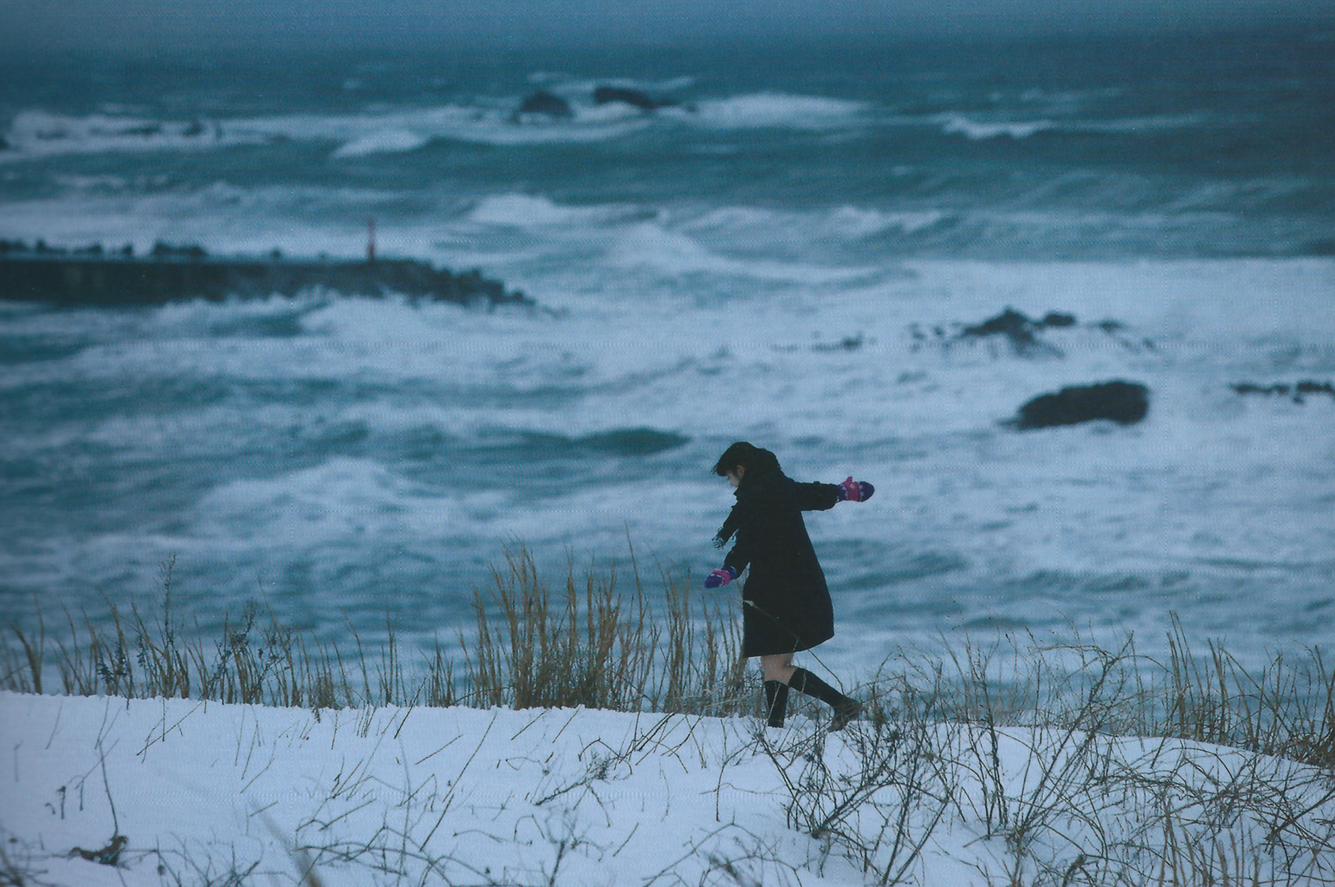
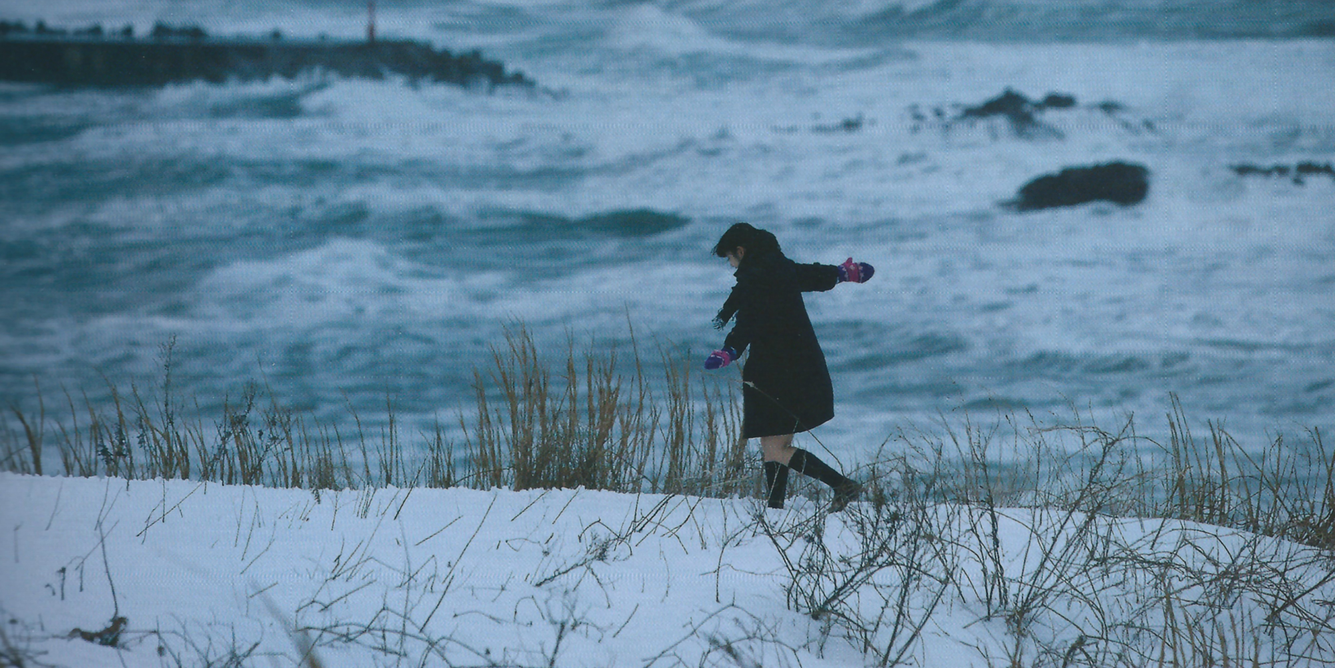
Site updated: 2025-01-14 11:33:17

diff --git a/index.html b/index.html
@@ -260,7 +260,7 @@
     <!-- 主页  -->
     <!-- 文章页  -->
     <div class="site-intro-placeholder"></div>
-    <div class="site-intro-img" style="background-image: url(/intro/17.png)"></div>
+    <div class="site-intro-img" style="background-image: url(/intro/28.png)"></div>
     <div class="site-intro-meta">
         <!-- 标题  -->
         <h1 class="intro-title">
@@ -526,13 +526,13 @@
 
         <div class="sidebar-panel-tags">
     <div class="sidebar-tags-name">
-            <span class="sidebar-tag-name" data-tags="读书笔记">
-                <span class="iconfont-archer">&#xe606;</span>
-                读书笔记
-            </span>
             <span class="sidebar-tag-name" data-tags="关于游戏">
                 <span class="iconfont-archer">&#xe606;</span>
                 关于游戏
+            </span>
+            <span class="sidebar-tag-name" data-tags="读书笔记">
+                <span class="iconfont-archer">&#xe606;</span>
+                读书笔记
             </span>
     </div>
     <div class="iconfont-archer sidebar-tags-empty">&#xe678;</div>

diff --git a/2025/01/09/人生的顶级享受/index.html b/2025/01/09/人生的顶级享受/index.html
@@ -543,13 +543,13 @@
 
         <div class="sidebar-panel-tags">
     <div class="sidebar-tags-name">
-            <span class="sidebar-tag-name" data-tags="读书笔记">
-                <span class="iconfont-archer">&#xe606;</span>
-                读书笔记
-            </span>
             <span class="sidebar-tag-name" data-tags="关于游戏">
                 <span class="iconfont-archer">&#xe606;</span>
                 关于游戏
+            </span>
+            <span class="sidebar-tag-name" data-tags="读书笔记">
+                <span class="iconfont-archer">&#xe606;</span>
+                读书笔记
             </span>
     </div>
     <div class="iconfont-archer sidebar-tags-empty">&#xe678;</div>

diff --git a/2025/01/13/《论语》读书笔记/index.html b/2025/01/13/《论语》读书笔记/index.html
@@ -561,13 +561,13 @@
 
         <div class="sidebar-panel-tags">
     <div class="sidebar-tags-name">
-            <span class="sidebar-tag-name" data-tags="读书笔记">
-                <span class="iconfont-archer">&#xe606;</span>
-                读书笔记
-            </span>
             <span class="sidebar-tag-name" data-tags="关于游戏">
                 <span class="iconfont-archer">&#xe606;</span>
                 关于游戏
+            </span>
+            <span class="sidebar-tag-name" data-tags="读书笔记">
+                <span class="iconfont-archer">&#xe606;</span>
+                读书笔记
             </span>
     </div>
     <div class="iconfont-archer sidebar-tags-empty">&#xe678;</div>

diff --git a/404.html b/404.html
@@ -460,13 +460,13 @@
 
         <div class="sidebar-panel-tags">
     <div class="sidebar-tags-name">
-            <span class="sidebar-tag-name" data-tags="读书笔记">
-                <span class="iconfont-archer">&#xe606;</span>
-                读书笔记
-            </span>
             <span class="sidebar-tag-name" data-tags="关于游戏">
                 <span class="iconfont-archer">&#xe606;</span>
                 关于游戏
+            </span>
+            <span class="sidebar-tag-name" data-tags="读书笔记">
+                <span class="iconfont-archer">&#xe606;</span>
+                读书笔记
             </span>
     </div>
     <div class="iconfont-archer sidebar-tags-empty">&#xe678;</div>

diff --git a/about/index.html b/about/index.html
@@ -480,13 +480,13 @@
 
         <div class="sidebar-panel-tags">
     <div class="sidebar-tags-name">
-            <span class="sidebar-tag-name" data-tags="读书笔记">
-                <span class="iconfont-archer">&#xe606;</span>
-                读书笔记
-            </span>
             <span class="sidebar-tag-name" data-tags="关于游戏">
                 <span class="iconfont-archer">&#xe606;</span>
                 关于游戏
+            </span>
+            <span class="sidebar-tag-name" data-tags="读书笔记">
+                <span class="iconfont-archer">&#xe606;</span>
+                读书笔记
             </span>
     </div>
     <div class="iconfont-archer sidebar-tags-empty">&#xe678;</div>

diff --git a/archives/2025/01/index.html b/archives/2025/01/index.html
@@ -502,13 +502,13 @@
 
         <div class="sidebar-panel-tags">
     <div class="sidebar-tags-name">
-            <span class="sidebar-tag-name" data-tags="读书笔记">
-                <span class="iconfont-archer">&#xe606;</span>
-                读书笔记
-            </span>
             <span class="sidebar-tag-name" data-tags="关于游戏">
                 <span class="iconfont-archer">&#xe606;</span>
                 关于游戏
+            </span>
+            <span class="sidebar-tag-name" data-tags="读书笔记">
+                <span class="iconfont-archer">&#xe606;</span>
+                读书笔记
             </span>
     </div>
     <div class="iconfont-archer sidebar-tags-empty">&#xe678;</div>

diff --git a/archives/2025/index.html b/archives/2025/index.html
@@ -502,13 +502,13 @@
 
         <div class="sidebar-panel-tags">
     <div class="sidebar-tags-name">
-            <span class="sidebar-tag-name" data-tags="读书笔记">
-                <span class="iconfont-archer">&#xe606;</span>
-                读书笔记
-            </span>
             <span class="sidebar-tag-name" data-tags="关于游戏">
                 <span class="iconfont-archer">&#xe606;</span>
                 关于游戏
+            </span>
+            <span class="sidebar-tag-name" data-tags="读书笔记">
+                <span class="iconfont-archer">&#xe606;</span>
+                读书笔记
             </span>
     </div>
     <div class="iconfont-archer sidebar-tags-empty">&#xe678;</div>

diff --git a/archives/index.html b/archives/index.html
@@ -502,13 +502,13 @@
 
         <div class="sidebar-panel-tags">
     <div class="sidebar-tags-name">
-            <span class="sidebar-tag-name" data-tags="读书笔记">
-                <span class="iconfont-archer">&#xe606;</span>
-                读书笔记
-            </span>
             <span class="sidebar-tag-name" data-tags="关于游戏">
                 <span class="iconfont-archer">&#xe606;</span>
                 关于游戏
+            </span>
+            <span class="sidebar-tag-name" data-tags="读书笔记">
+                <span class="iconfont-archer">&#xe606;</span>
+                读书笔记
             </span>
     </div>
     <div class="iconfont-archer sidebar-tags-empty">&#xe678;</div>

diff --git a/tags/关于游戏/index.html b/tags/关于游戏/index.html
@@ -478,13 +478,13 @@
 
         <div class="sidebar-panel-tags">
     <div class="sidebar-tags-name">
-            <span class="sidebar-tag-name" data-tags="读书笔记">
-                <span class="iconfont-archer">&#xe606;</span>
-                读书笔记
-            </span>
             <span class="sidebar-tag-name" data-tags="关于游戏">
                 <span class="iconfont-archer">&#xe606;</span>
                 关于游戏
+            </span>
+            <span class="sidebar-tag-name" data-tags="读书笔记">
+                <span class="iconfont-archer">&#xe606;</span>
+                读书笔记
             </span>
     </div>
     <div class="iconfont-archer sidebar-tags-empty">&#xe678;</div>

diff --git a/tags/读书笔记/index.html b/tags/读书笔记/index.html
@@ -477,13 +477,13 @@
 
         <div class="sidebar-panel-tags">
     <div class="sidebar-tags-name">
-            <span class="sidebar-tag-name" data-tags="读书笔记">
-                <span class="iconfont-archer">&#xe606;</span>
-                读书笔记
-            </span>
             <span class="sidebar-tag-name" data-tags="关于游戏">
                 <span class="iconfont-archer">&#xe606;</span>
                 关于游戏
+            </span>
+            <span class="sidebar-tag-name" data-tags="读书笔记">
+                <span class="iconfont-archer">&#xe606;</span>
+                读书笔记
             </span>
     </div>
     <div class="iconfont-archer sidebar-tags-empty">&#xe678;</div>
